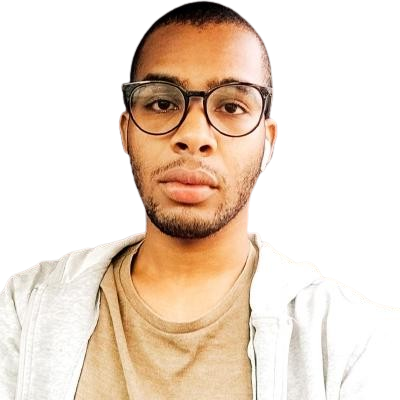
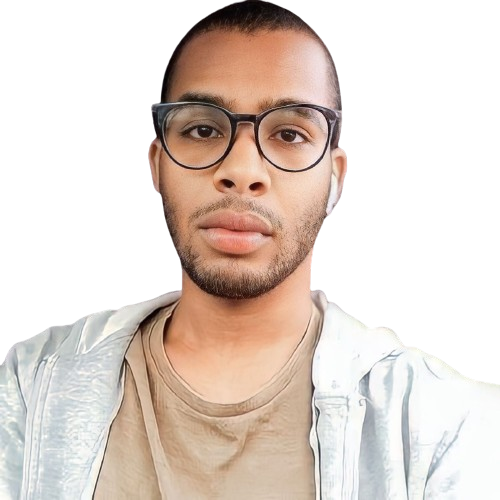
styling the hero-image

Changed region(s): [[0.0, 0.0, 0.93, 1.0]]

diff --git a/app/[locale]/page.jsx b/app/[locale]/page.jsx
@@ -6,8 +6,10 @@ import ProjectSection from "./components/projectSection"
 import ContactSection from "./components/ContactSection"
 import AOS from "aos"
 import "aos/dist/aos.css"
+import FooterSection from "./components/FooterSection"
 import { useEffect } from "react"
 import { useLocale } from "next-intl"
+import Image from "next/image"
 const Home = () => {
   useEffect(() => {
     AOS.init({
@@ -29,6 +31,7 @@ const Home = () => {
           <AboutSection />
           <ProjectSection />
           <ContactSection />
+          <FooterSection />
         </div>
       </main>
     </>
@@ -36,3 +39,32 @@ const Home = () => {
 }
 
 export default Home
+
+{
+  /* <div className="group rounded-md relative h-[380px] w-[380px] flex flex-col items-center justify-center overflow-hidden hover:shadow-xl hover:shadow-black/30 transition-shadow cursor-pointer ">
+      <div className="w-full h-full">
+        <Image
+          src={imgUrl}
+          className="h-full w-full  group-hover:rotate-3 group-hover:scale-110 transition-transform duration-500"
+          alt={title}
+          width={500}
+          height={500}
+        />
+      </div>
+      <div className="absolute inset-0 bg-gradient-to-b from-black/25 via-transparent to-black opacity-0 group-hover:opacity-85 transition-opacity duration-300"></div>
+      <div className="absolute inset-0 flex flex-col items-center justify-center text-center transform translate-y-[60%] group-hover:translate-y-0 transition-all">
+        <h1 className="text-lg md:text-xl font-bold text-white">{title}</h1>
+        <p className="text-base md:text-md mb-3 italic text-white opacity-0 group-hover:opacity-100 transition-opacity duration-300">
+          {discreption}
+        </p>
+        <div className="flex items-center justify-center w-full space-x-8">
+          <Link href={links[1]} target="_blank" className="group/link">
+            <FaCode className="w-10 h-10 text-[#ADB7BE] p-2 rounded-full border-2 border-[#ADB7BE] relative group-hover/link:border-[#BED250] group-hover/link:text-[#BED250]" />
+          </Link>
+          <Link href={links[0]} target="_blank" className="group/link">
+            <IoMdEye className="w-10 h-10 p-2 text-[#ADB7BE] rounded-full border-2 border-[#ADB7BE]  group-hover/link:border-[#BED250] group-hover/link:text-[#BED250]" />
+          </Link>
+        </div>
+      </div>
+    </div> */
+}

diff --git a/app/[locale]/components/ProjectCard.jsx b/app/[locale]/components/ProjectCard.jsx
@@ -6,7 +6,7 @@ import { IoMdEye } from "react-icons/io"
 const ProjectCard = ({ imgUrl, title, discreption, links }) => {
   return (
     <div className=" group flex flex-col cursor-pointer hover:shadow-[#BED250] hover:shadow-xl hover:-translate-y-1 translate-y-0 overflow-hidden transition duration-700">
-      <div className="relative flex-shrink-0">
+      <div className="relative">
         <Image
           src={imgUrl}
           width={500}
@@ -18,7 +18,7 @@ const ProjectCard = ({ imgUrl, title, discreption, links }) => {
           <div className="flex items-center justify-center w-full space-x-8">
             <Link href={links[1]} target="_blank" className="group/link">
               <FaCode className="w-10 h-10 text-[#ADB7BE] p-2 rounded-full border-2 border-[#ADB7BE] relative group-hover/link:border-[#BED250] group-hover/link:text-[#BED250]" />
-            </Link> 
+            </Link>
             <Link href={links[0]} target="_blank" className="group/link">
               <IoMdEye className="w-10 h-10 p-2 text-[#ADB7BE] rounded-full border-2 border-[#ADB7BE]  group-hover/link:border-[#BED250] group-hover/link:text-[#BED250]" />
             </Link>

diff --git a/app/[locale]/globals.css b/app/[locale]/globals.css
@@ -2,7 +2,33 @@
 @tailwind components;
 @tailwind utilities;
 
+.direction {
+  direction: rtl;
+}
+/* Assuming you have a class for the section */
+.section-with-background {
+  position: relative;
+  overflow: hidden;
+}
 
-.direction{
-    direction: rtl;
+/* Style for the background image */
+.section-with-background::before {
+  content: "";
+  position: absolute;
+  top: 0;
+  left: 0;
+  width: 100%;
+  height: 100%;
+  background: url("/about_image.jpg") center/cover no-repeat; /* Adjust the path and properties */
+  opacity: 0.7; /* Adjust the opacity value (0 to 1) */
+  z-index: -1; /* Place it behind the content */
+  filter: blur(10px); /* Add a blur effect if desired */
+}
+
+/* Shadow effect on the content */
+.section-content {
+  position: relative;
+  z-index: 1; /* Bring the content to the front */
+  padding: 20px; /* Adjust padding as needed */
+  box-shadow: 0 4px 8px rgba(0, 0, 0, 0.2); /* Add a subtle shadow */
 }

diff --git a/app/[locale]/components/HeroSection.jsx b/app/[locale]/components/HeroSection.jsx
@@ -12,7 +12,7 @@ const HeroSection = () => {
       ? "https://drive.google.com/file/d/1VFvGw_JwM5QNK-vsRKN0n_nTkQP4z78I/view?usp=drive_link"
       : "https://drive.google.com/file/d/1flEfVu5DwFayeTeI3YhbNULU4sdYBxKw/view?usp=drive_link"
   return (
-    <section data-aos="fade-up">
+    <section data-aos="scale-up">
       <div className="flex md:flex-row gap-6 items-center justify-center flex-col mb-10 lg:px-10">
         <div
           className={`md:col-span-7 px-4 text-center  ${
@@ -59,8 +59,8 @@ const HeroSection = () => {
               src={"/avatar.png"}
               width={400}
               height={400}
-              alt="personal image "
-              className="rounded-md "
+              alt="personal "
+              className="rounded-full border-4 border-[#BED250] border-double"
             />
           </div>
         </div>

diff --git a/app/[locale]/components/ContactSection.jsx b/app/[locale]/components/ContactSection.jsx
@@ -39,8 +39,9 @@ const ContactSection = () => {
   const isArabic = useLocale()
   const contactSection = useTranslations("Contact-Section")
   return (
-    <section className="text-white" id="contact" data-aos="fade-up">
-      <div className="grid grid-cols-1 lg:grid-cols-2 gap-8 xl:gap-16   py-20 ">
+    <section className="text-white relative" id="contact" data-aos="fade-up">
+    
+      <div className="grid grid-cols-1 lg:grid-cols-2 gap-8 xl:gap-16  py-20 ">
         <div className="flex flex-col justify-between gap-3">
           <div>
             <h1

diff --git a/app/[locale]/components/FooterSection.jsx b/app/[locale]/components/FooterSection.jsx
@@ -1,0 +1,15 @@
+import { useTranslations } from "next-intl"
+
+const FooterSection = () => {
+  const Year = new Date().getFullYear()
+  const footer = useTranslations('Footer-Section')
+  return (
+    <footer>
+      <div className="flex text-base sm:text-lg text-white justify-center items-center w-full p-5">
+        <p>{footer('footer')} &copy; {Year}</p>
+      </div>
+    </footer>
+  )
+}
+
+export default FooterSection

diff --git a/tailwind.config.js b/tailwind.config.js
@@ -11,6 +11,7 @@ module.exports = {
         "gradient-radial": "radial-gradient(var(--tw-gradient-stops))",
         "gradient-conic":
           "conic-gradient(from 180deg at 50% 50%, var(--tw-gradient-stops))",
+        gradient: "linear-gradient(to bottom right, #BED250, #109C81, #00B5C2)",
       },
     },
   },
